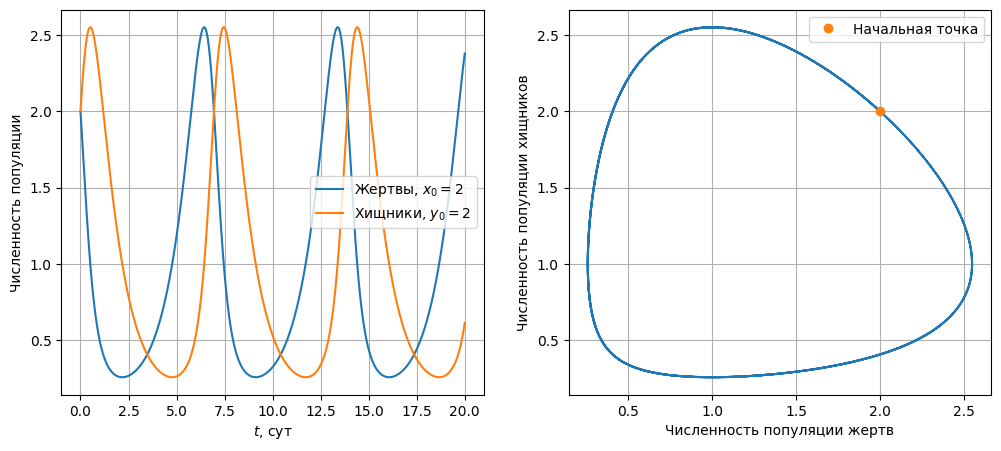
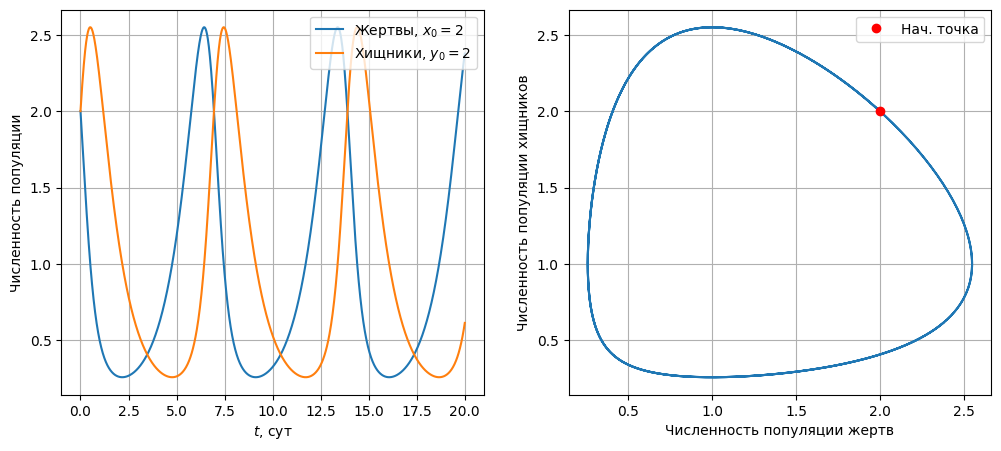
start conditions comparison

diff --git a/main.py b/main.py
@@ -32,27 +32,37 @@ def rungeKutta(x, start_conditions, param_list):
     return y
 
 
-def plot_starts(t, start_conditions_list, param_list, ris):
-    fig, axs = plt.subplots(1, 2, figsize=(12, 5))
+def plot_starts(t, start_conditions_list, parameters, ris):
     N_plots = len(start_conditions_list)
+    ratios = [1, 1] if N_plots == 1 else [6, 3]
+
+    fig, axs = plt.subplots(1, 2, figsize=(12, 5),  width_ratios=ratios)
 
     for i in range(N_plots):
         start_conditions = start_conditions_list[i]
         x0, y0 = start_conditions[0], start_conditions[1]
-        parameters = param_list[i]
 
         system = rungeKutta(t, start_conditions, parameters)
 
-        axs[0].plot(t, system[:, 0], label=rf"Жертвы, $x_0 = {x0}$")
-        axs[0].plot(t, system[:, 1], label=rf"Хищники, $y_0 = {y0}$")
-        axs[1].plot(system[:, 0], system[:, 1])
+        style = "-" if i % 2 == 0 else "--"
         if N_plots == 1:
-            axs[1].plot([x0], [y0], "o", label="Начальная точка")
+            axs[0].plot(t, system[:, 0], label=rf"Жертвы, $x_0 = {x0}$")
+            axs[0].plot(t, system[:, 1], label=rf"Хищники, $y_0 = {y0}$")
+            axs[1].plot(system[:, 0], system[:, 1])
+        else:
+            axs[0].plot(t, system[:, 0], linestyle=style, label=rf"$x_0 = {x0}$")
+            axs[0].plot(t, system[:, 1], linestyle=style, label=rf"$y_0 = {y0}$")
+            axs[1].plot(system[:, 0], system[:, 1], linestyle=style, label=rf"$x_0 = {x0}$, $y_0 = {y0}$")
+
+        if i == N_plots - 1:
+            axs[1].plot([x0], [y0], "o", color="red", label="Нач. точка")
+        else:
+            axs[1].plot([x0], [y0], "o", color="red")
 
     axs[0].set_xlabel(r"$t$, сут")
     axs[0].set_ylabel(r"Численность популяции")
     axs[0].grid()
-    axs[0].legend(loc="center right")
+    axs[0].legend(loc="upper right")
     axs[1].set_xlabel(r"Численность популяции жертв")
     axs[1].set_ylabel(r"Численность популяции хищников")
     axs[1].grid()
@@ -75,8 +85,16 @@ if __name__ == '__main__':
     N = 1500
     t = np.linspace(a, b, N + 1)
 
+    starts1 = [[x0, y0]]
     parameters = [alpha]
 
-    plot_starts(t, [[x0, y0]], [parameters], 1)
-    
+    plot_starts(t, starts1, parameters, 1)
 
+    b = 14
+    t = np.linspace(a, b, N + 1)
+
+    starts2 = [[2, 2],
+              [4, 3],
+              [4, 5]]
+
+    plot_starts(t, starts2, parameters, 2)
